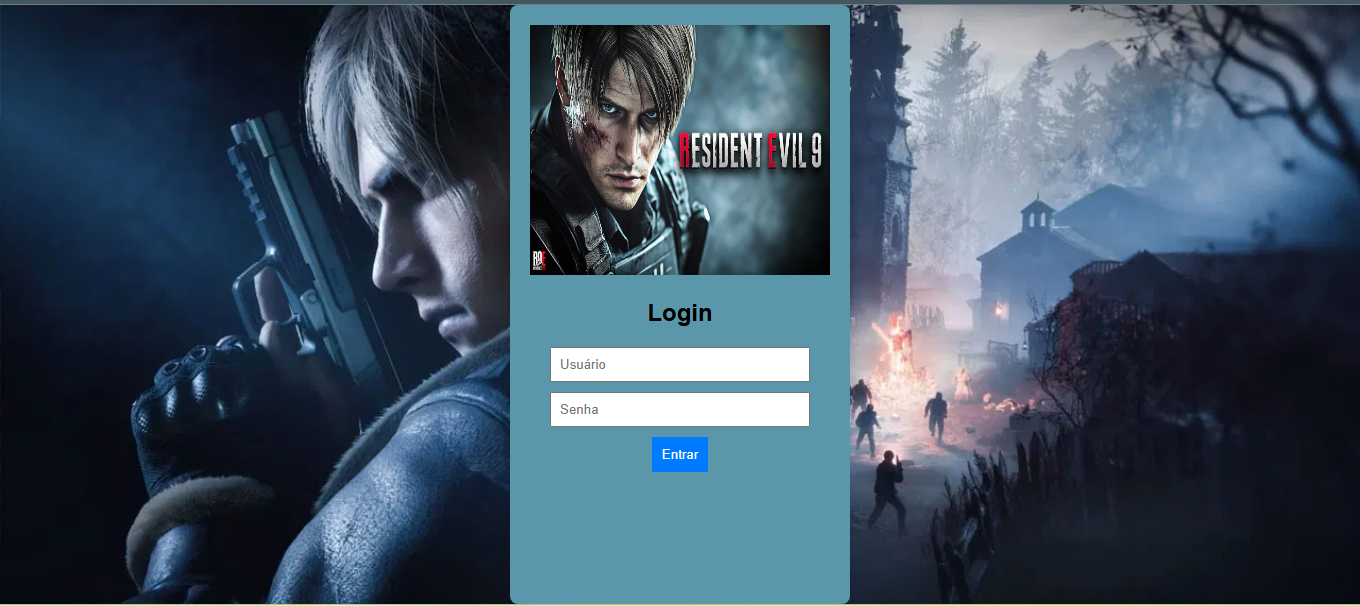
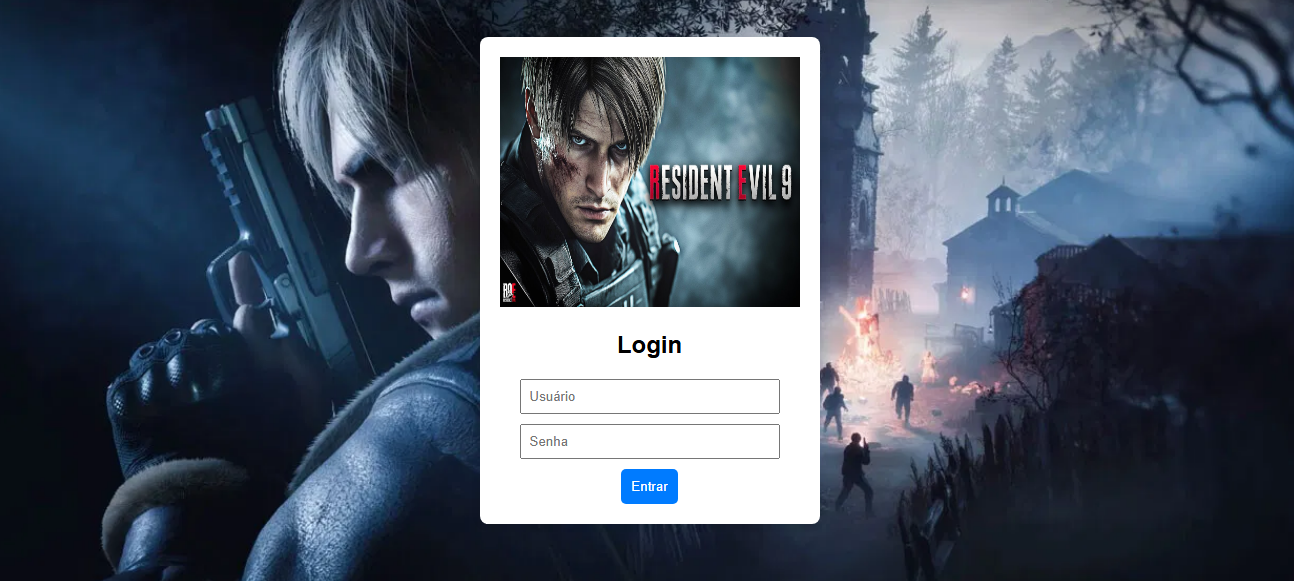
Atualização 2.0

diff --git a/css/style.css b/css/style.css
@@ -1,0 +1,44 @@
+body {
+    font-family: Arial, sans-serif;
+    display: flex;
+    justify-content: center;
+    align-items: center; /* Centraliza a div na tela */
+    height: 100vh;
+    background-image: url('../img/resident-evil-9-fundo.webp');
+    background-size: cover; /* Faz a imagem cobrir toda a tela */
+    background-position: center; /* Centraliza a imagem */
+    background-repeat: no-repeat; /* Evita que a imagem se repita */
+    background-attachment: fixed; /* Fixa a imagem no fundo */
+}
+
+.container {
+    background: white; /* Mantém a div destacada */
+    padding: 20px;
+    box-shadow: 0 0 10px rgba(0, 0, 0, 0.1);
+    border-radius: 8px;
+    text-align: center;
+    width: 90%;
+    max-width: 300px; /* Evita que a div fique muito grande */
+}
+
+input {
+    display: block;
+    margin: 10px auto;
+    padding: 8px;
+    width: 80%;
+    max-width: 300px;
+}
+
+button {
+    background: #007bff;
+    color: white;
+    border: none;
+    padding: 10px;
+    cursor: pointer;
+    border-radius: 5px;
+    transition: background 0.3s ease;
+}
+
+button:hover {
+    background: #0056b3;
+}

diff --git a/index.html b/index.html
@@ -5,7 +5,7 @@
     <meta charset="UTF-8">
     <meta name="viewport" content="width=device-width, initial-scale=1.0">
     <title>Página de Login</title>
-    <link rel="stylesheet" href="style.css">
+    <link rel="stylesheet" href="css/style.css">
 </head>
 
 <body>
